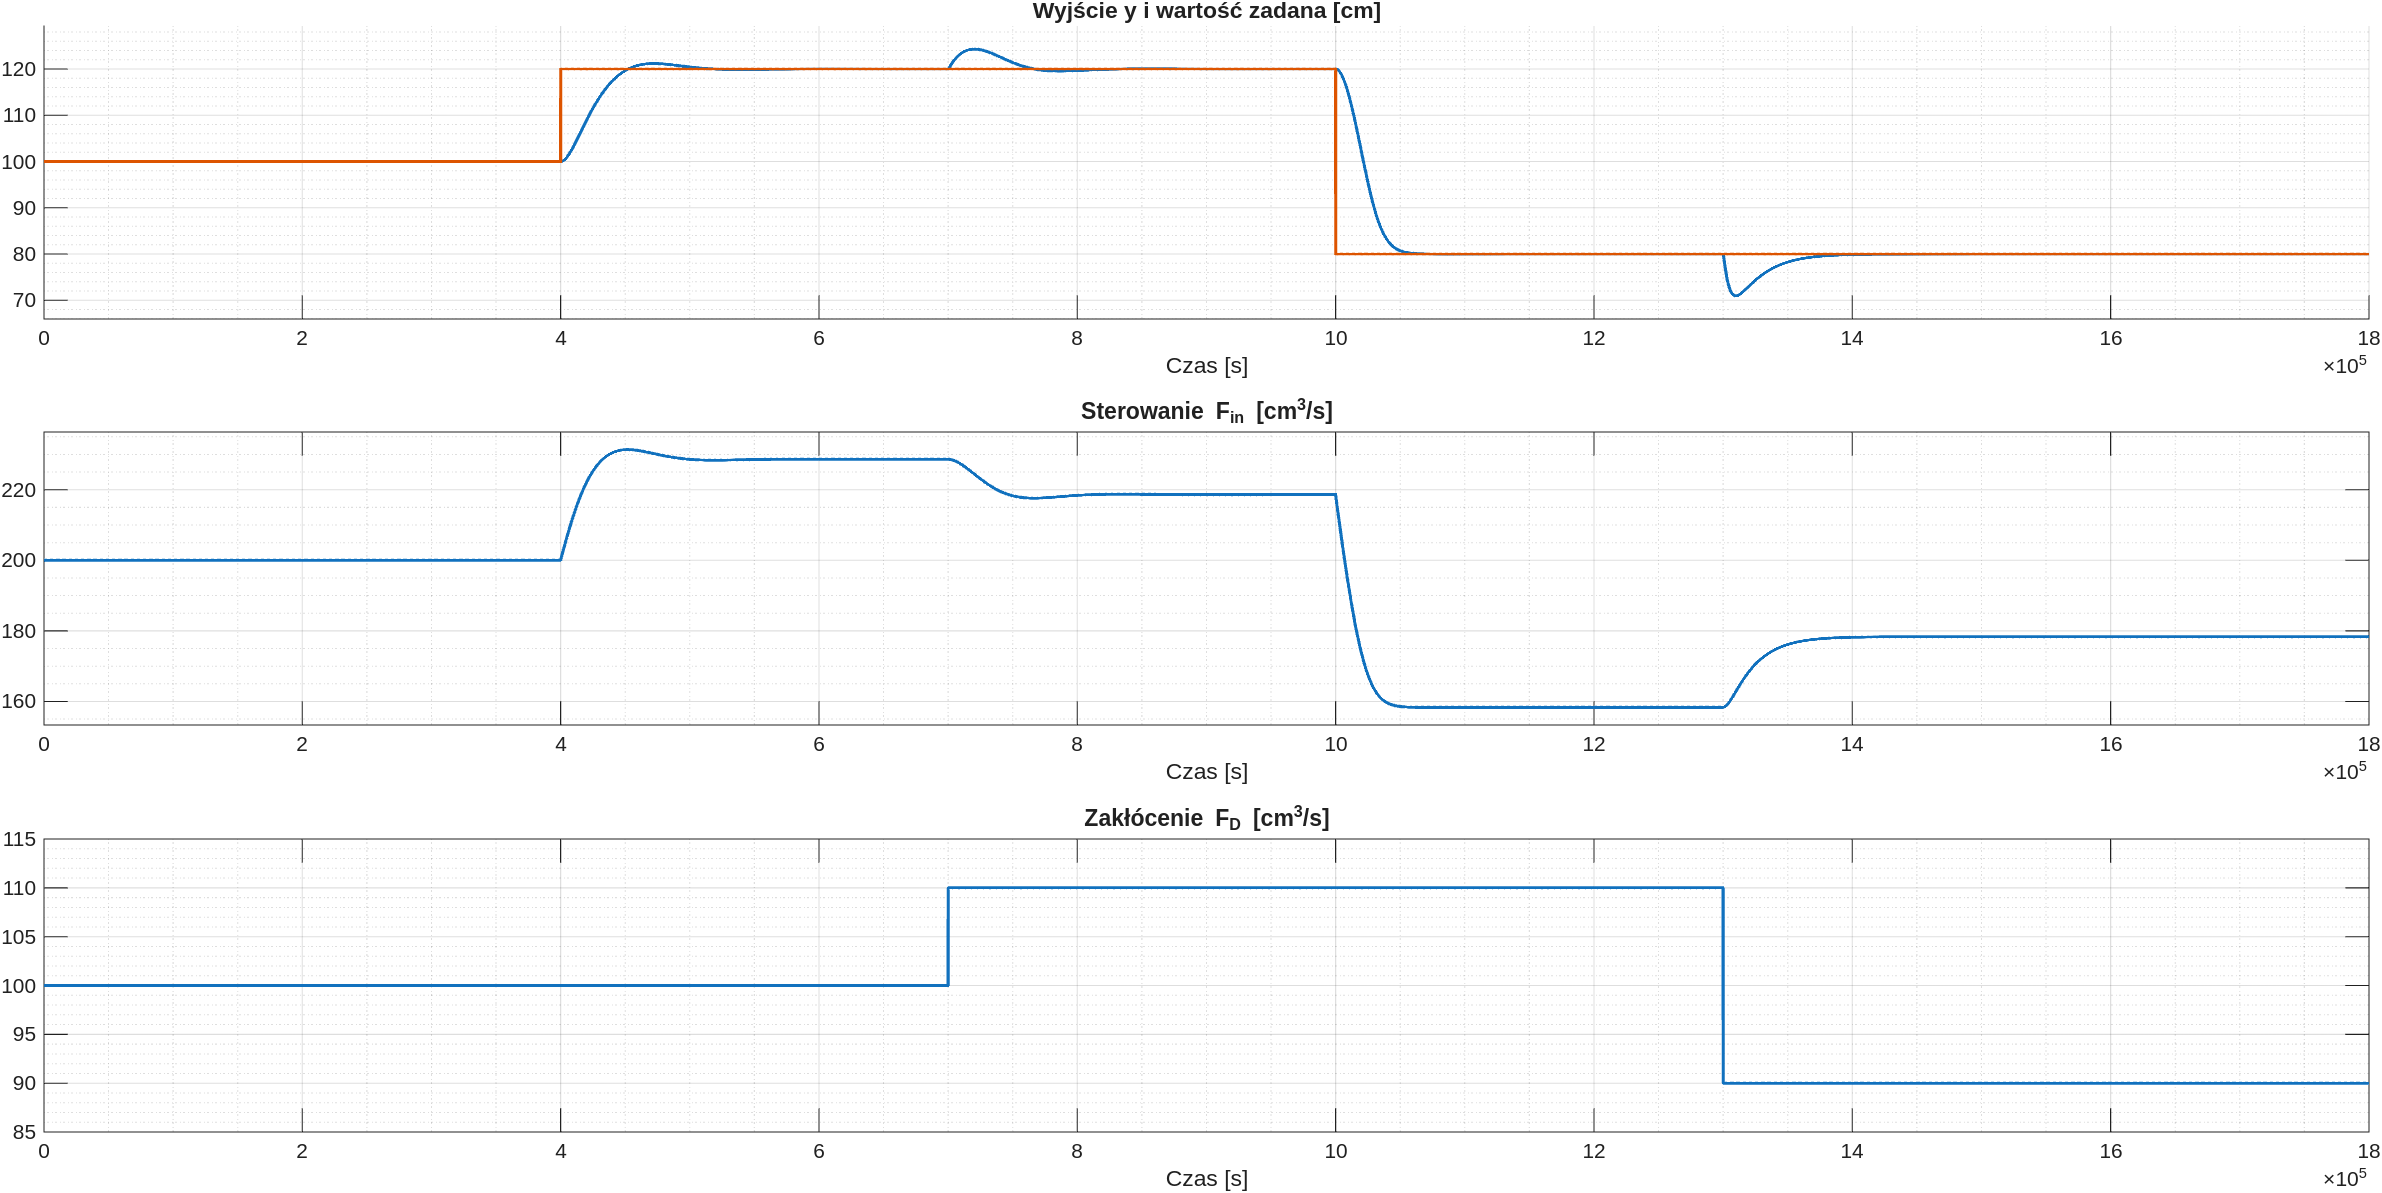
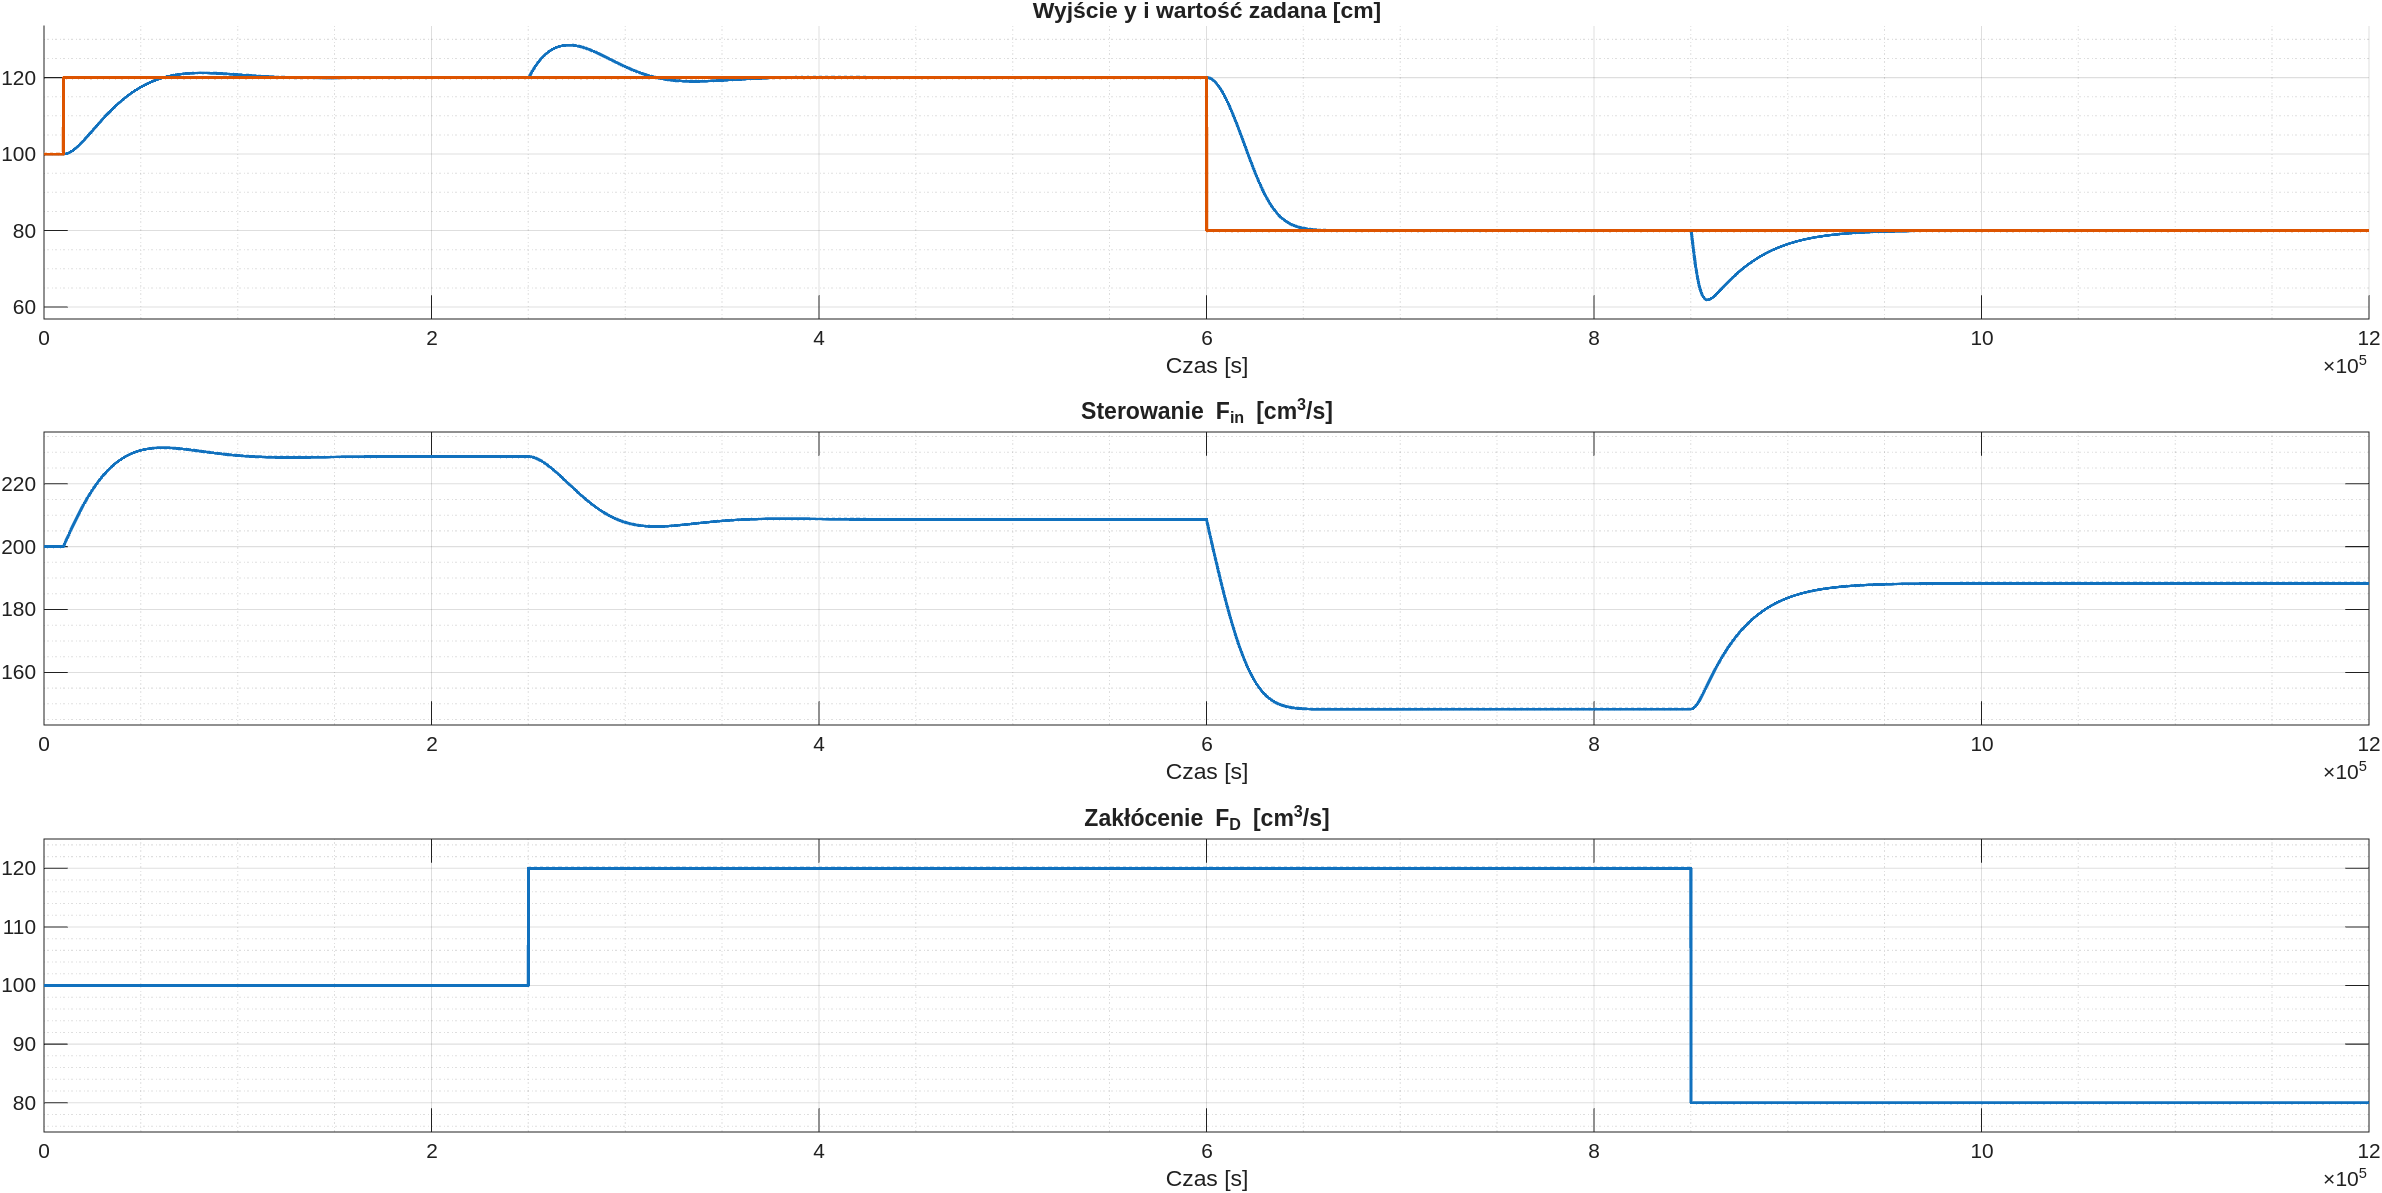
.

diff --git a/DMC.m b/DMC.m
@@ -1,6 +1,7 @@
 %% Konwencjonalny regulator DMC
 clear; clc;
 
+Ts = 100; % okres próbkowania dla regulatora DMC
 
 % ---------------------------------------------------------------
 % Linearyzacja modelu nieliniowego
@@ -27,7 +28,6 @@ B(2,2) = 0;
 % ---------------------------------------------------------------
 % Identyfikacja skoku jednostkowego dla sterowania 
 
-Ts = 100; % okres próbkowania dla regulatora DMC
 Tend = 50000;
 T = Ts : Ts : Tend;
 
@@ -64,7 +64,7 @@ clear t x y1 y2 s1 s2 T
 D = length(s);      % horyzont dynamiki
 N = round(D/100);   % horyzont predykcji
 Nu = 10;            % horyzont sterowania
-lambda = 100;         % współczynnik kary
+lambda = 10;         % współczynnik kary
 
 Mp = zeros(N, D-1);
 for i = 1 : N
@@ -101,15 +101,18 @@ clear Mp M K K1
 % Matlab numeruje indeksy od 1 !!!
 % Czyli dla indeksu 1 mamy chwilę '0*Ts sek', dla indeksu 2 mamy chwilę '1*Ts sek', itd.
 
-time = 0 : Ts : 6e6;             % czas symulacji
+Tend = 12e5;
+
+time = 0 : Ts : Tend;             % czas symulacji
 
 h = [170, 100];  % początkowa wartość stanów
 
 y = zeros(length(time), 1);     % wektor wyjść (h2)
 y(1) = h(1,2);                  % początkowa wartość wyjścia   
 
-y_zad = 100 + 150*(time>0.1e6) + 150*(time>3e6);   % wartość zadana
-Fd = 100 + 100*(time>1.5e6) - 100*(time>4.5e6);    % zakłócenia
+y_zad = 100 + 150*(time>0.1e5) - 200*(time>6e5);   % wartość zadana
+Fd = 100 + 50*(time>2.5e5) - 100*(time>8.5e5);    % zakłócenia
+
 
 Fin = zeros(length(time), 1);     % wektor sterowań
 
@@ -117,17 +120,19 @@ dUp1 = zeros(D-1, 1);            % wektor przyrostów sterowania z poprzednich k
 dUp2 = zeros(D-1, 1);            % wektor przyrostów zakłócenia z poprzednich kroków (początkowo zerowy)
 
 for k = 1 : length(time) - 1
-    fprintf('[%f %%]\n', 100 * k / length(time));
+    fprintf('[%f %%]\n', 100 * k / (length(time)-1));
+
+    % Obliczanie przyrostu sterowania
+    du1 = ke * ( y_zad(k) - y(k) ) - dot(kp, dUp1 + dUp2);
+    du1 = min(max(du1, -100), 100);  % ograniczenie przyrostu sterowania
+
+    % Aktualizacja wektora przyrostów sterowania z poprzednich kroków
+    dUp1 = [du1; dUp1(1 : end - 1)];
 
     % Aktualizacja wektora przyrostów zakłócenia z poprzednich kroków
     if k > 1
         dUp2 = [Fd(k) - Fd(k-1); dUp2(1 : end - 1)]; 
     end
-
-    % Obliczanie przyrostu sterowania
-    du1 = ke * ( y_zad(k) - y(k) ) - dot(kp, dUp1 + dUp2);
-    % Aktualizacja wektora przyrostów sterowania z poprzednich kroków
-    dUp1 = [du1; dUp1(1 : end - 1)];
     
     % Aktualizacja sterowania
     if k > 1
@@ -135,6 +140,8 @@ for k = 1 : length(time) - 1
     else
         Fin(k) = du1 + Fin_point; % dla k=1 mamy przyrost sterowania + steroanie z punktu równowagi
     end
+
+    Fin(k) = min(max(Fin(k), 0), 700); % ograniczenie sterowania
     
     % Przy nowym sterowaniu obliczamy wyjście w następnej chwili próbkowania.
     f2 = @(t_,h_) [ ...
@@ -143,6 +150,7 @@ for k = 1 : length(time) - 1
     ];
     [~, h_temp] = ode45(f2, [time(k) time(k+1)], h, odeset('RelTol',1e-3));
     h = h_temp(end,:);
+    h(h < 1e-6) = 1e-6;
     y(k+1) = h(2);
 end
 
